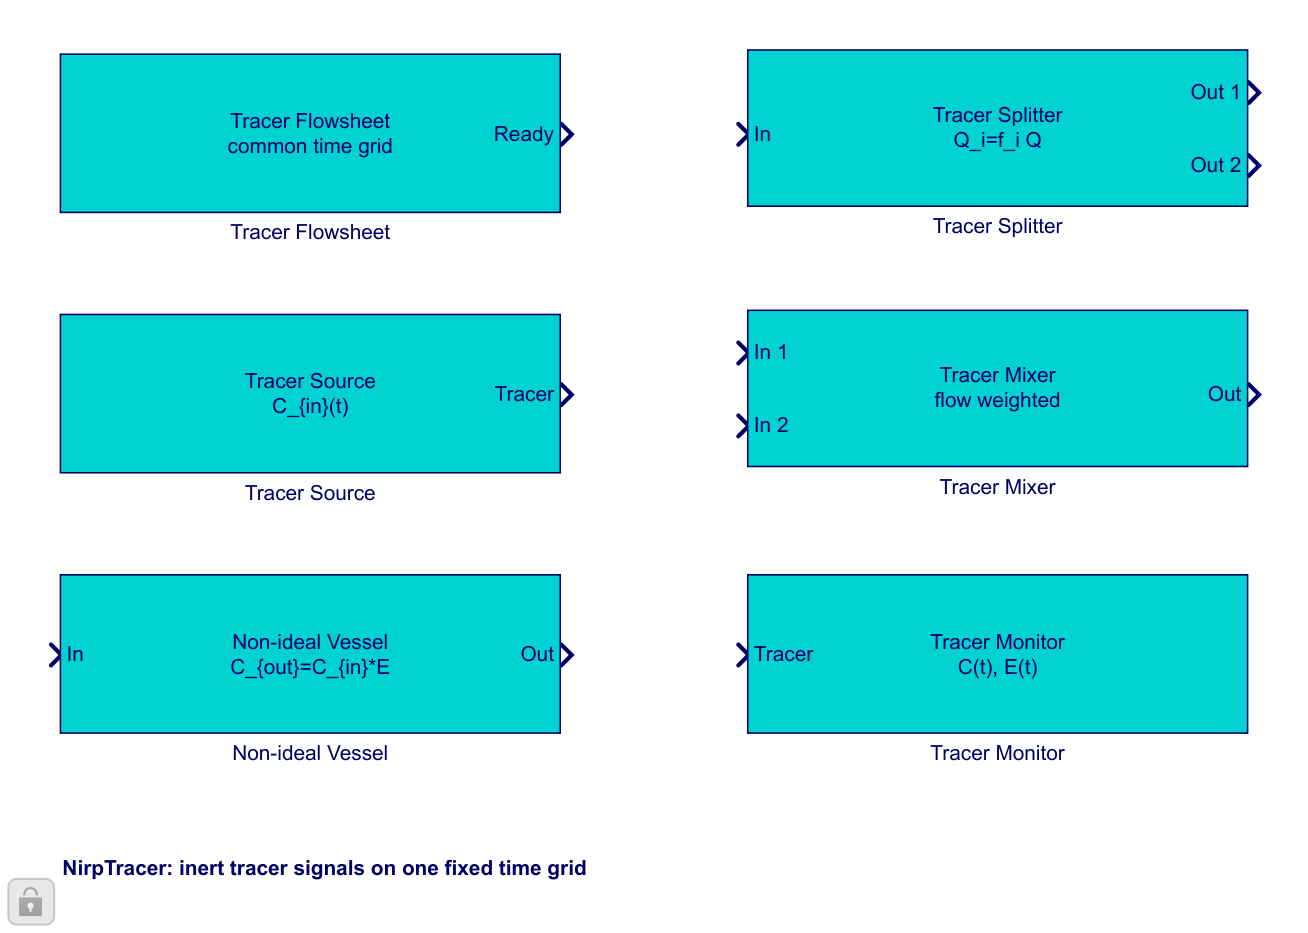
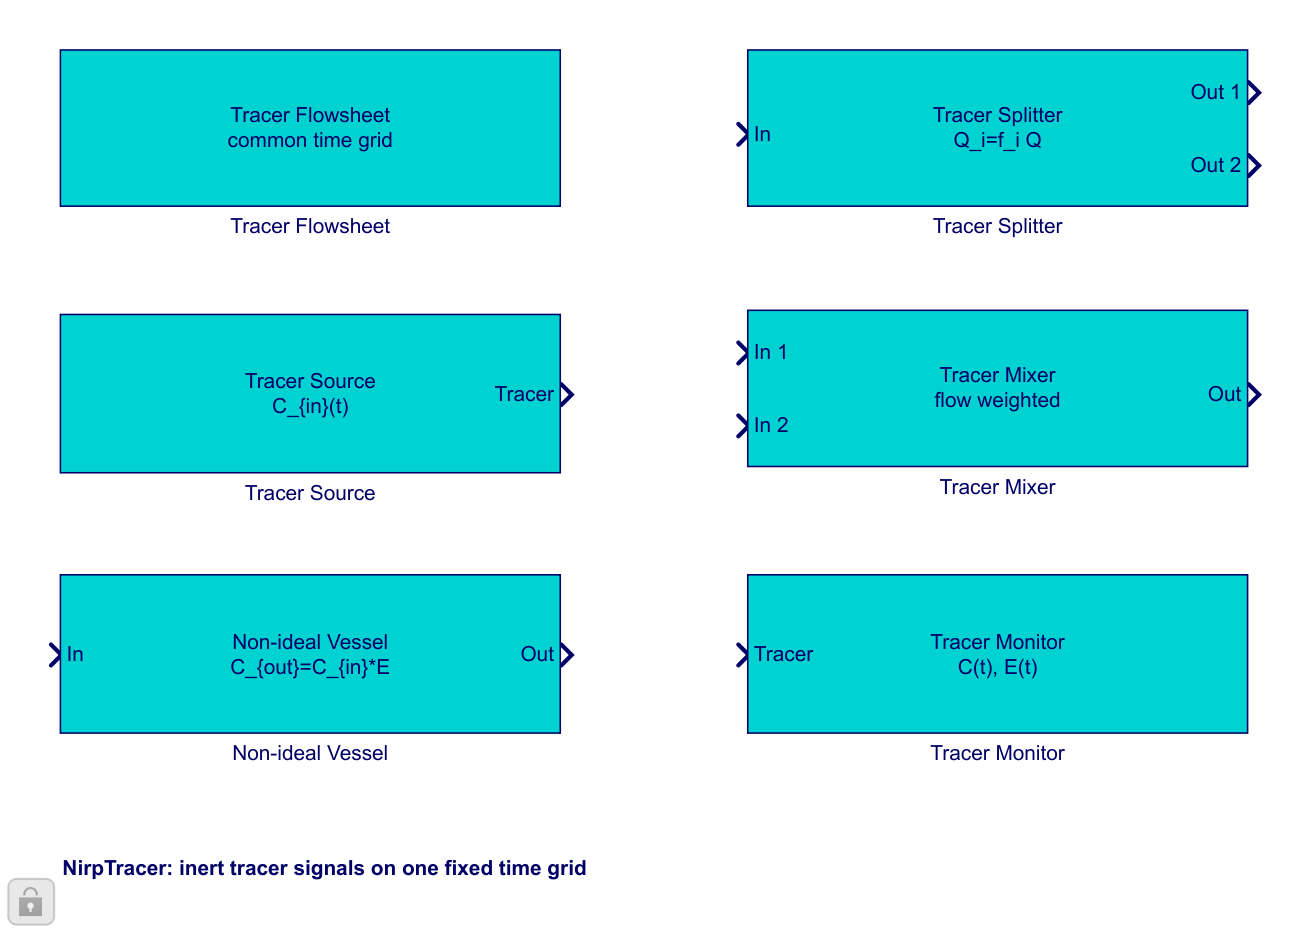
Remove the unused Ready port from the Tracer Flowsheet block (T-202)
The block only holds the common time grid and validates it at setup, so it
needs no ports; the tracer guide diagrams are reprinted without it.

diff --git a/tests/NirpTracerBlocksTest.m b/tests/NirpTracerBlocksTest.m
@@ -2,7 +2,7 @@ classdef NirpTracerBlocksTest < matlab.unittest.TestCase
     % NirpTracerBlocksTest verifies tracer blocks, separation, and dialogs.
     % =========================================================================
     % Javier Berenguer Sabater
-    % Created: October 22, 2026. Last update: October 23, 2026
+    % Created: October 22, 2026. Last update: October 24, 2026
     % =========================================================================
     properties,Folder;end
     methods (TestMethodSetup)
@@ -19,12 +19,16 @@ classdef NirpTracerBlocksTest < matlab.unittest.TestCase
             d=Simulink.data.dictionary.open(dictionary);cleanup=onCleanup(@()close(d));bus=getValue(getEntry(getSection(d,'Design Data'),'NirpTracer'));testCase.verifyEqual({bus.Elements.Name},{'Q','C','E','sourceId','valid','status'});
         end
         function mixedIdealAndTracerBlocksAreRejectedWithBothNames(testCase)
-            name='mixed_network';nirp.tracerflowsheet.new(name,testCase.Folder,'OpenModel',false);load_system(fullfile(testCase.Folder,[name '.slx']));addTracer(name,'Tracer Source','nirp.tracerblocks.Source',[40 150 170 210],{});addTracer(name,'Ideal Mixer','nirp.blocks.Mixer',[250 150 380 210],{'NumInputs','2'});add_line(name,'Tracer Source/1','Ideal Mixer/1');
-            testCase.verifyError(@()nirp.tracerflowsheet.validateSeparation(name),'nirp:tracerflowsheet:MixedFlowsheets');
-            try,nirp.tracerflowsheet.validateSeparation(name);catch e,testCase.verifySubstring(e.message,'Tracer Source');testCase.verifySubstring(e.message,'Ideal Mixer');end
+            name='mixed_network';[~,dictionary]=nirp.tracerflowsheet.new(name,testCase.Folder,'OpenModel',false);nirp.pkg.writeDictionary(nirp.pkg.examples.firstOrderLiquid(),dictionary);load_system(fullfile(testCase.Folder,[name '.slx']));addTracer(name,'Tracer Source','nirp.tracerblocks.Source',[40 150 170 210],{});addTracer(name,'Ideal Mixer','nirp.blocks.Mixer',[250 150 380 210],{'NumInputs','2'});add_line(name,'Tracer Source/1','Ideal Mixer/1');
+            try,sim(name);testCase.assertFail('The mixed tracer/ideal model simulated without a separation error.');catch e,testCase.verifyTrue(hasCause(e,'nirp:tracerflowsheet:MixedFlowsheets'),getReport(e));testCase.verifySubstring(getReport(e),'Tracer Source');testCase.verifySubstring(getReport(e),'Ideal Mixer');end
         end
         function libraryIsSeparateAndVisuallyDistinct(testCase)
             file=build_tracer_library(testCase.Folder);testCase.verifyTrue(isfile(file));load_system(file);blocks=find_system('NirpTracerLibrary','SearchDepth',1,'BlockType','MATLABSystem');testCase.verifyNumElements(blocks,6);systems=string(get_param(blocks,'System'));testCase.verifyTrue(all(startsWith(systems,'nirp.tracerblocks.')));testCase.verifyTrue(all(strcmp(get_param(blocks,'BackgroundColor'),'cyan')));
+            flowsheet=blocks(systems=="nirp.tracerblocks.Flowsheet");verifyNoPorts(testCase,flowsheet{1});
+        end
+        function newModelFlowsheetHasNoPortsAndStillValidatesGrid(testCase)
+            name='portless_flowsheet';nirp.tracerflowsheet.new(name,testCase.Folder,'OpenModel',false);load_system(fullfile(testCase.Folder,[name '.slx']));block=[name '/Tracer Flowsheet'];verifyNoPorts(testCase,block);
+            set_param(block,'TFinal','10.05');try,sim(name);testCase.assertFail('The portless Tracer Flowsheet did not validate its grid during simulation.');catch e,testCase.verifyTrue(hasCause(e,'nirp:tracer:IncommensurateGrid'),getReport(e));end
         end
         function dialogsApplyAndReopenHeadlessly(testCase)
             name='tracer_dialogs';nirp.tracerflowsheet.new(name,testCase.Folder,'OpenModel',false);load_system(fullfile(testCase.Folder,[name '.slx']));
@@ -78,3 +82,5 @@ function configure(name),set_param(name,'SolverType','Fixed-step','Solver','Fixe
 function closeAllModels(),models=find_system('Type','block_diagram');for k=1:numel(models),try,close_system(models{k},0);catch,end,end;end
 function deleteValid(value),if ~isempty(value)&&isvalid(value),delete(value);end,end
 function deleteDialogs(values),for k=1:numel(values),deleteValid(values{k});end,end
+function verifyNoPorts(testCase,block),ports=get_param(block,'PortHandles');testCase.verifyEmpty(ports.Inport);testCase.verifyEmpty(ports.Outport);end
+function value=hasCause(exception,identifier),value=strcmp(exception.identifier,identifier)||any(cellfun(@(cause)hasCause(cause,identifier),exception.cause));end

diff --git a/+nirp/+tracerblocks/Flowsheet.m b/+nirp/+tracerblocks/Flowsheet.m
@@ -2,7 +2,7 @@ classdef Flowsheet < matlab.System
     % Flowsheet owns the fixed time grid for a tracer-only diagram.
     % =========================================================================
     % Javier Berenguer Sabater
-    % Created: October 22, 2026. Last update: October 22, 2026
+    % Created: October 22, 2026. Last update: October 24, 2026
     % =========================================================================
     properties (Nontunable)
         Dt = 0.1
@@ -14,13 +14,10 @@ classdef Flowsheet < matlab.System
             nirp.tracer.grid(obj.Dt,obj.TFinal) ;
             nirp.tracerflowsheet.validateSeparation(bdroot(gcb)) ;
         end
-        function ready=stepImpl(~),ready=true;end
+        function stepImpl(~)
+        end
         function n=getNumInputsImpl(~),n=0;end
-        function type=getOutputDataTypeImpl(~),type='boolean';end
-        function size=getOutputSizeImpl(~),size=[1 1];end
-        function flag=isOutputFixedSizeImpl(~),flag=true;end
-        function flag=isOutputComplexImpl(~),flag=false;end
-        function name=getOutputNamesImpl(~),name='Ready';end
+        function n=getNumOutputsImpl(~),n=0;end
         function icon=getIconImpl(~),icon=sprintf('Tracer Flowsheet\ncommon time grid');end
         function sts=getSampleTimeImpl(obj),sts=createSampleTime(obj,'Type','Discrete','SampleTime',obj.Dt);end
     end
